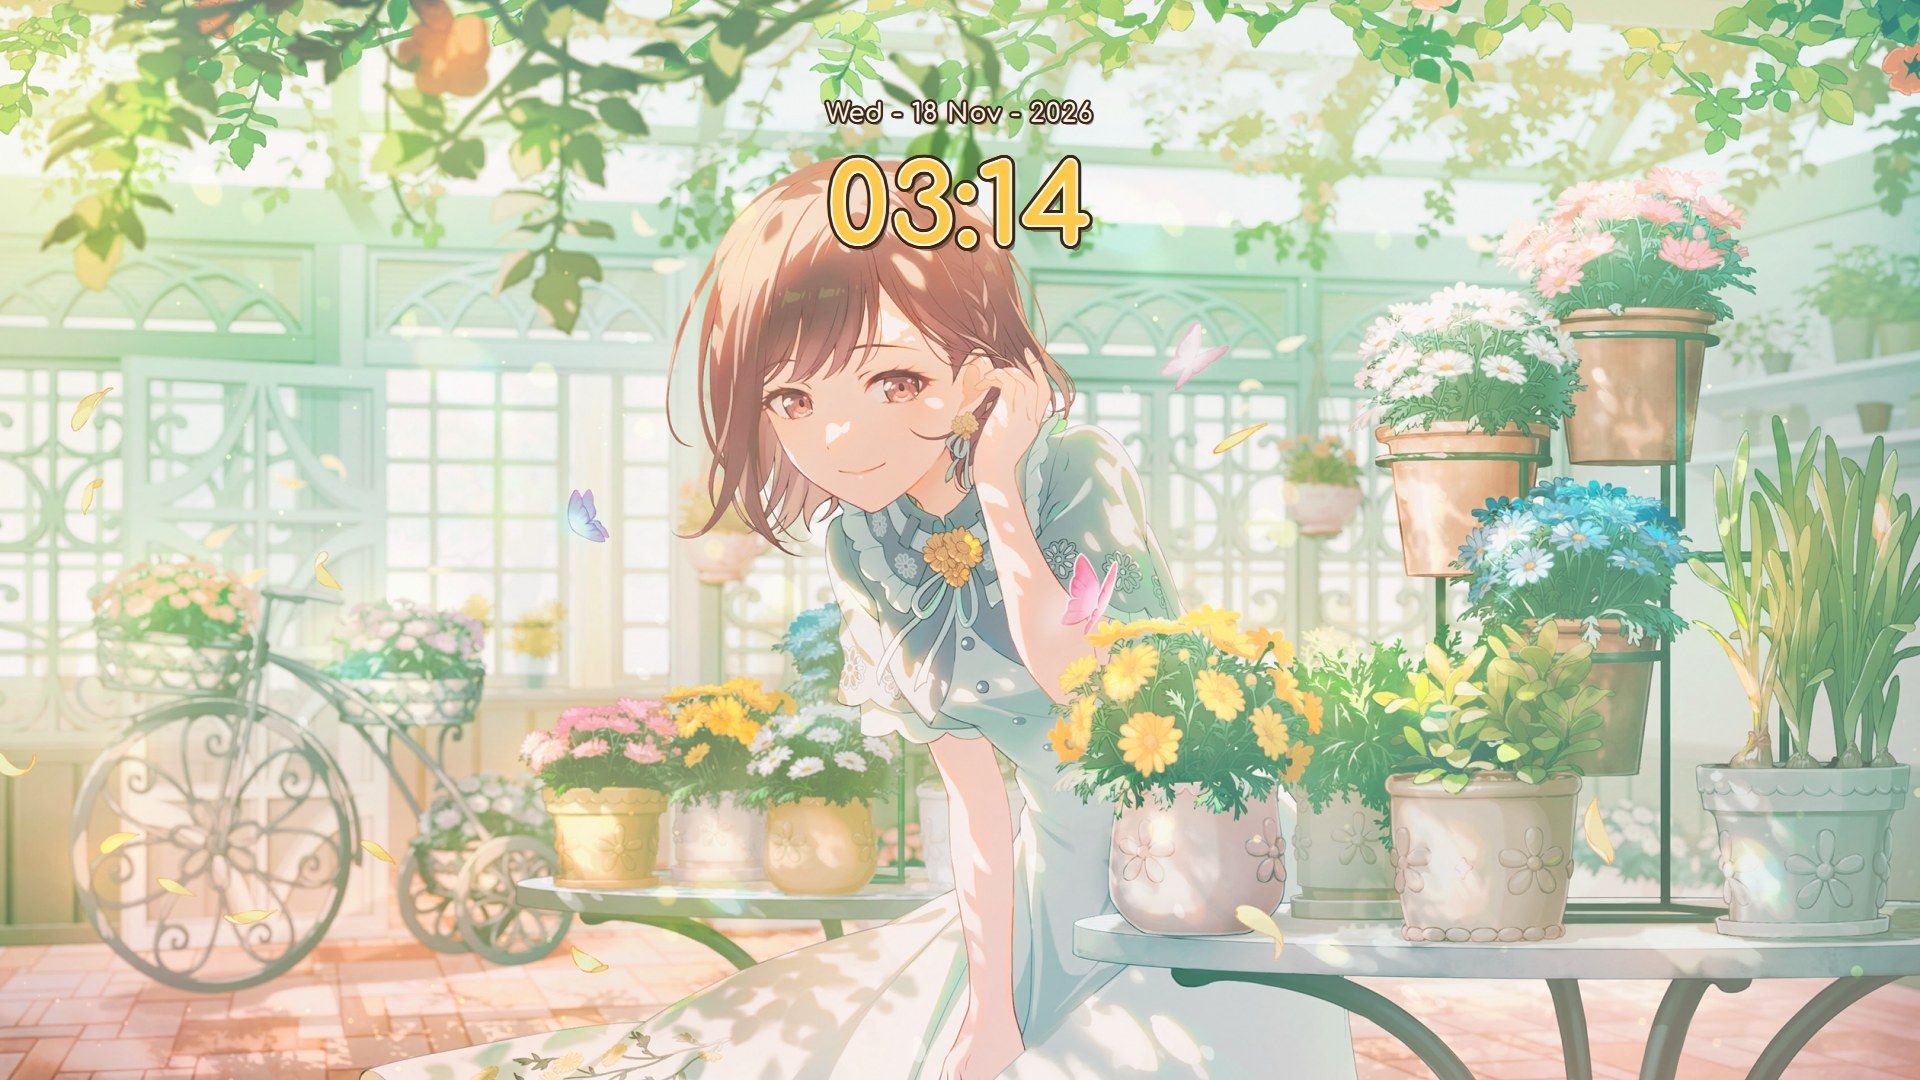
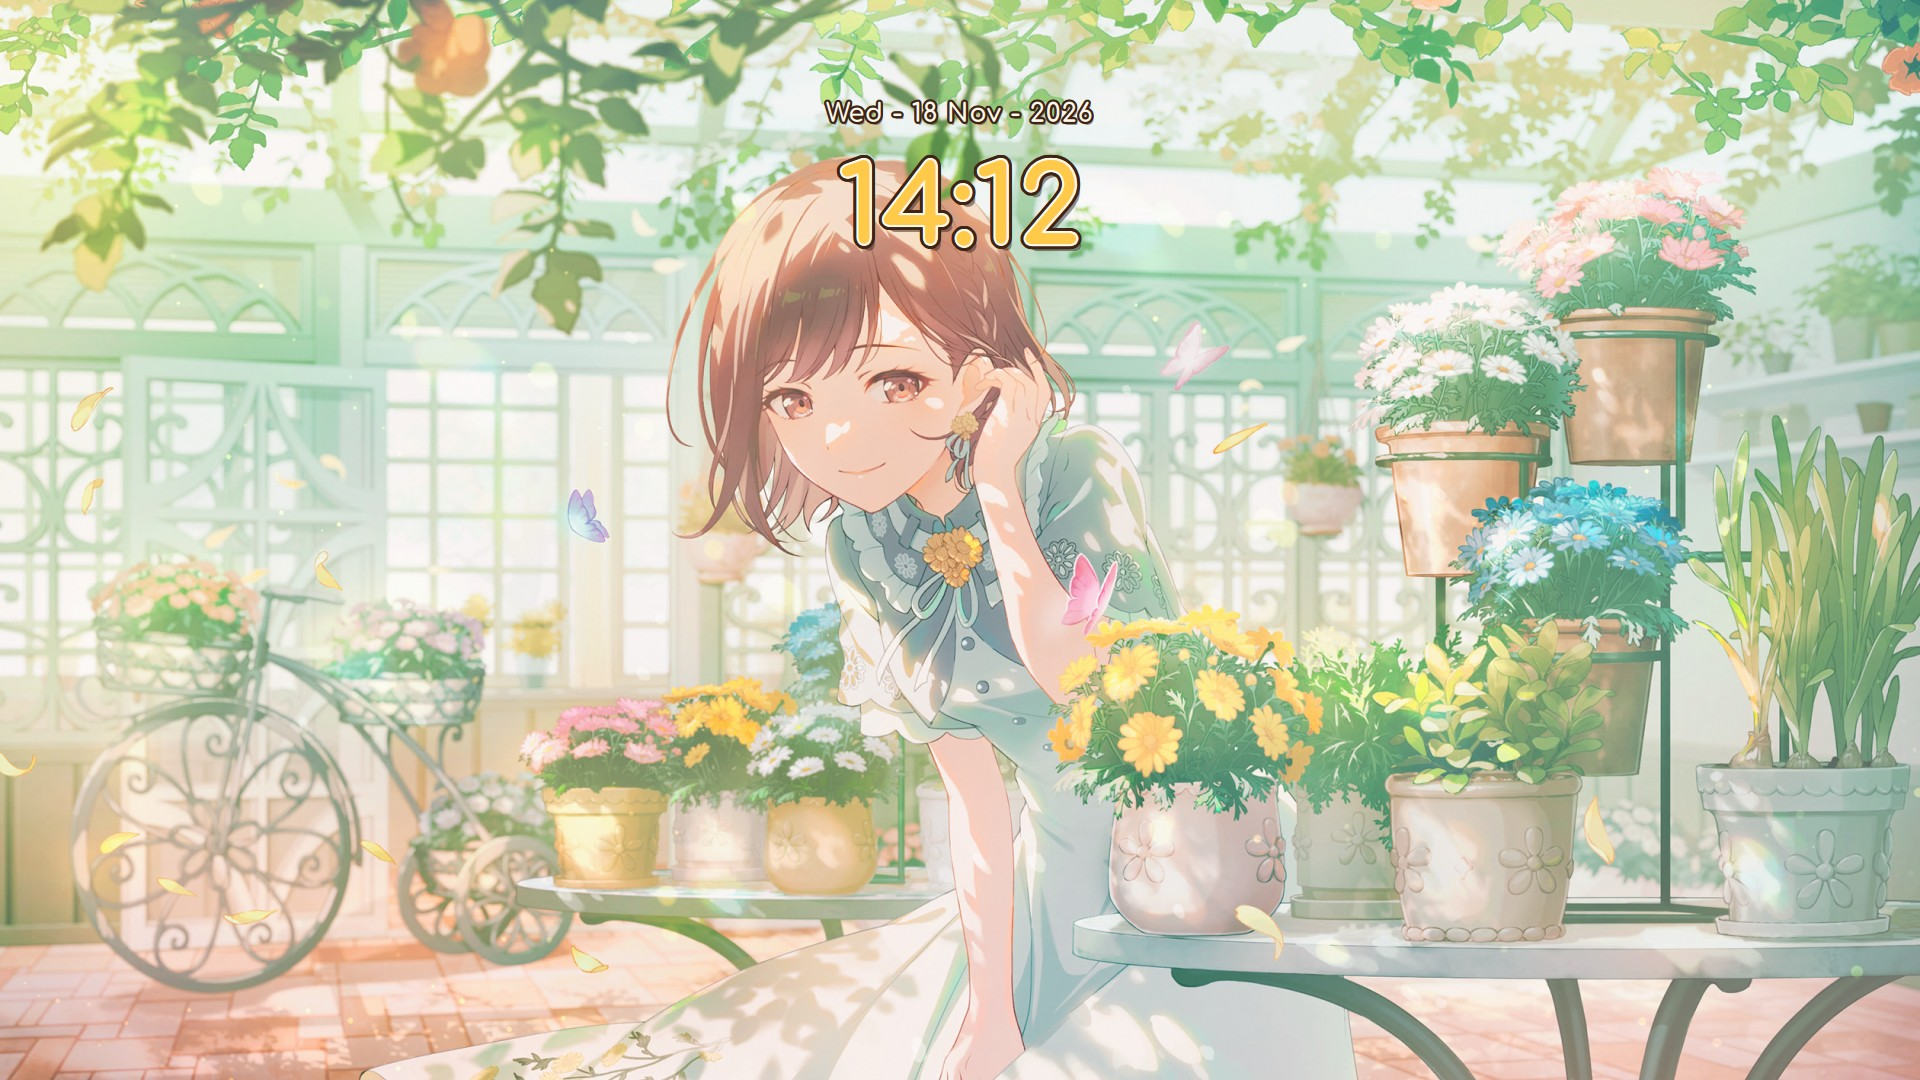
docs(cozy-ena): retake lock and login shots

Changed region(s): [[0.4062, 0.1222, 0.5938, 0.2444]]

diff --git a/cozy-ena/README.md b/cozy-ena/README.md
@@ -7,6 +7,7 @@ Plasma rice for Bazzite: clear top panel, opaque brown dock/popups, Vapor colors
 ![Desktop](../images/cozy-ena/desktop.jpg)
 
 ![Lock](../images/cozy-ena/lock.jpg)
+
 ![Login](../images/cozy-ena/login.jpg)
 
 ![Launcher](../images/cozy-ena/launcher.jpg)
@@ -15,6 +16,7 @@ Plasma rice for Bazzite: clear top panel, opaque brown dock/popups, Vapor colors
 |--|--|
 | Clock | ![Clock](../images/cozy-ena/clock.png) |
 | Dock + media | ![Dock](../images/cozy-ena/dock.png) |
+| Login card | ![Login card](../images/cozy-ena/login-user.png) |
 
 ## Wallpaper (not in repo)
 
